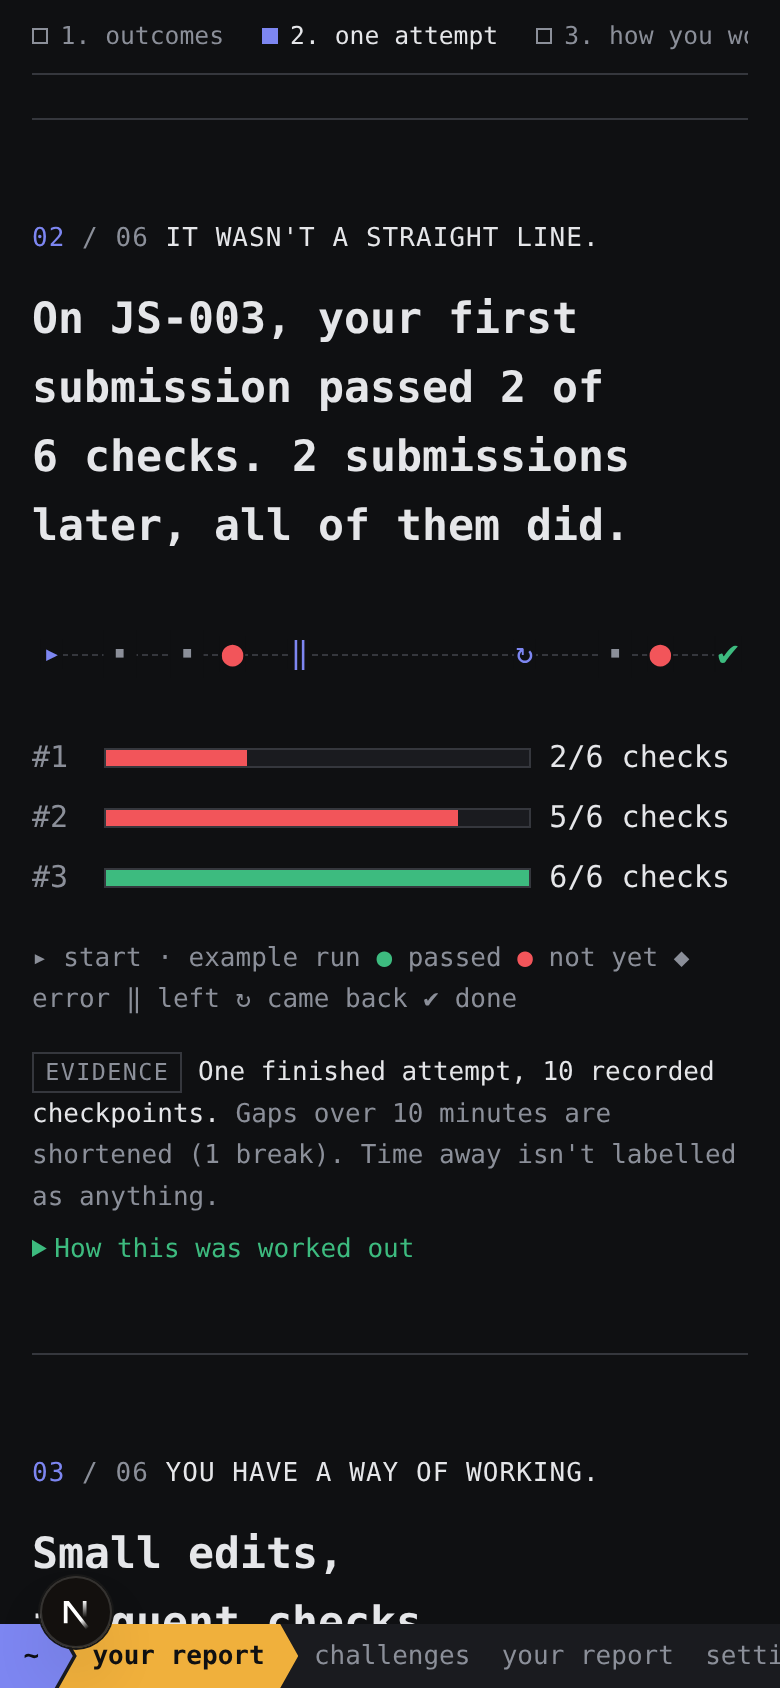
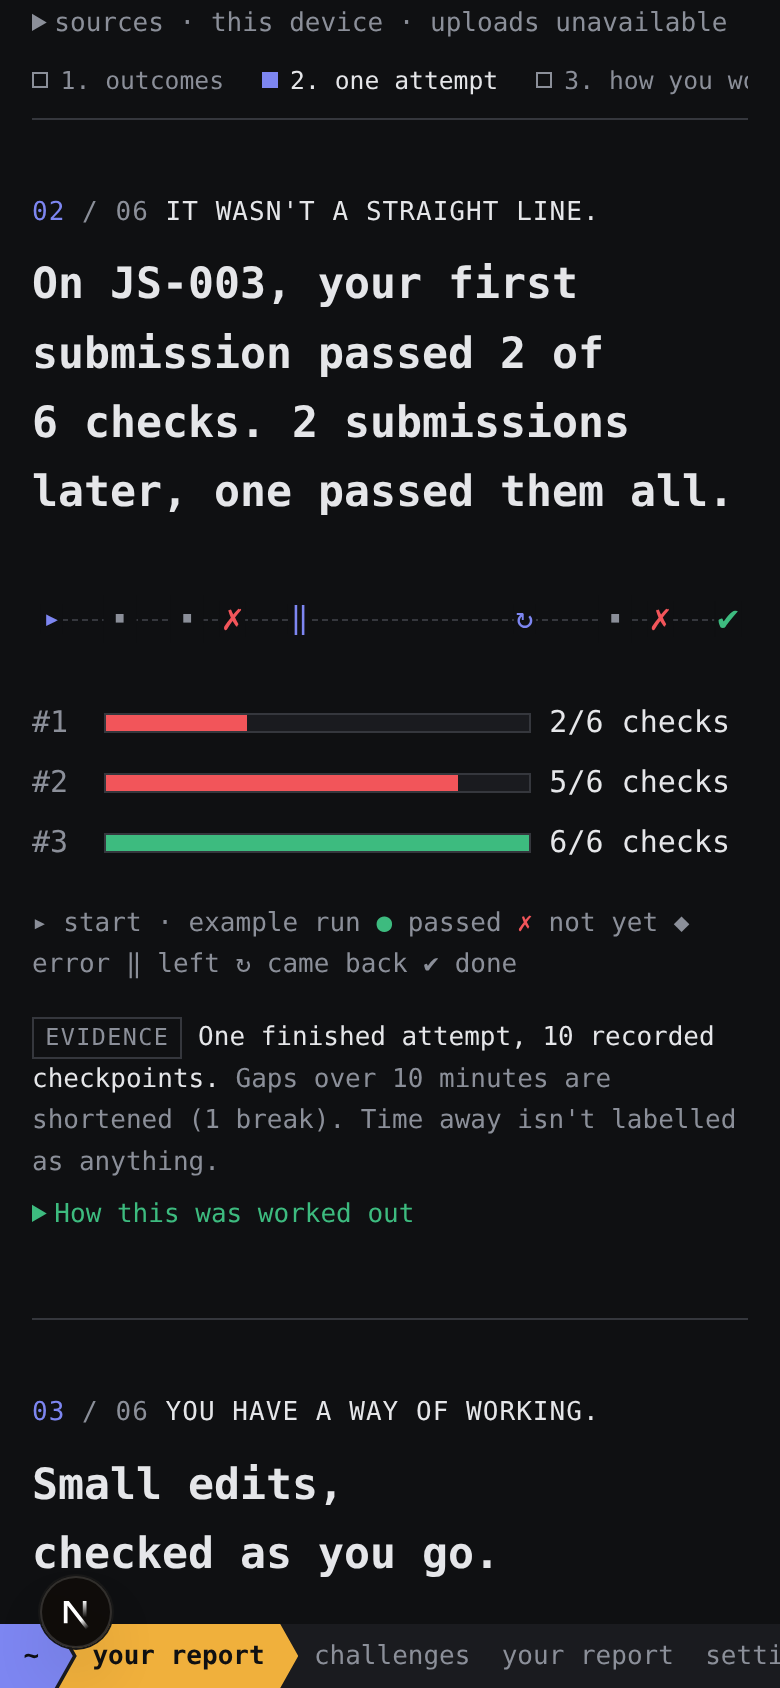
Keep failed model reads and errored submissions truthful; cards on mobile (ENG-374)
Root found an all-failed receipt read reported as 'no model tried', and the
story dropping errored submissions before naming the first one. Unreadable
receipts now say so, every submission keeps its place, and narrow screens get
one comparison card per challenge so every model outcome is visible.

diff --git a/apps/web/lib/report.test.ts b/apps/web/lib/report.test.ts
@@ -115,7 +115,7 @@ test("rich synthetic evidence tells all six chapters from what was recorded", ()
   assert.ok(o.languages[0].items[0].revisited, "two completions are a revisit");
 
   const s = chapter<StoryChapter>(r, "story")!;
-  assert.match(s.headline, /first graded submission passed 1 of 3 checks\. Next time, all of them did/);
+  assert.match(s.headline, /first submission passed 1 of 3 checks\. The next one passed them all\./);
   assert.equal(s.title, "It wasn't a straight line.");
   assert.deepEqual(s.submissions.map((x) => `${x.passed}/${x.total}`), ["1/3", "3/3"]);
   assert.deepEqual(s.markers.map((m) => m.kind), ["start", "fail", "pass", "done"], "opening isn't a return");
@@ -240,4 +240,60 @@ test("a finish known only from uploads is marked, not presented as device progre
   const o = chapter<OutcomesChapter>(r, "outcomes")!;
   assert.equal(o.languages[0].items[0].fromUploads, true);
   assert.match(o.evidence.basis, /1 finished only in your uploads/);
+});
+
+test("failed receipt reads never become a claim that no model tried", () => {
+  const a = summary("f1", "JS-001"),
+    b = summary("f2", "PY-001", `sha256:${"d".repeat(64)}`);
+  const all = chapter<ComparisonChapter>(
+    buildReport(input({ attempts: device(a, b), receipts: { [a.revision]: "unavailable", [b.revision]: "unavailable" } })),
+    "minds",
+  )!;
+  assert.equal(all.headline, "Model results can't be read right now.");
+  assert.doesNotMatch(all.headline, /No model/);
+  const some = chapter<ComparisonChapter>(
+    buildReport(input({ attempts: device(a, b), receipts: { [a.revision]: [], [b.revision]: "unavailable" } })),
+    "minds",
+  )!;
+  assert.match(some.headline, /challenges that could be read; 1 couldn't be read right now/);
+  const mixed = chapter<ComparisonChapter>(
+    buildReport(input({ attempts: device(a, b), receipts: { [a.revision]: [receipt()], [b.revision]: "unavailable" } })),
+    "minds",
+  )!;
+  assert.match(mixed.headline, /synthetic\/model solved 1 of 1\. 1 couldn't be read right now\./);
+  assert.equal(chapter<ComparisonChapter>(buildReport(input({ attempts: device(a), receipts: { [a.revision]: [] } })), "minds")!.headline,
+    "No model has a comparable try on these exact challenges yet.");
+});
+
+test("errored and cancelled submissions keep their place in the story", () => {
+  const a = summary("e1", "JS-001");
+  const at = (s: number) => new Date(Date.parse("2026-10-27T10:00:00Z") + s * 1000).toISOString();
+  const withSubs = (labels: string[], completed = true) => ({
+    ...a,
+    completed,
+    timeline: [
+      { at: at(0), label: "started" },
+      ...labels.map((label, i) => ({ at: at(10 + i * 10), label })),
+      ...(completed ? [{ at: at(100), label: "completed" }] : []),
+    ],
+  });
+  const failErrorPass = withSubs([
+    "failed: 1/3 checks; 0 static rules",
+    "errored: 0/3 checks; 0 static rules",
+    "passed: 3/3 checks; 0 static rules",
+  ]);
+  const s = chapter<StoryChapter>(buildReport(input({ attempts: device(failErrorPass) })), "story")!;
+  assert.equal(s.headline, "On JS-001, your first submission passed 1 of 3 checks. 2 submissions later, one passed them all.");
+  assert.deepEqual(s.submissions.map((x) => x.result), ["failed", "errored", "passed"]);
+  assert.deepEqual(s.markers.map((m) => m.kind), ["start", "fail", "error", "pass", "done"]);
+  const errorFirst = withSubs(["errored: 0/3 checks; 0 static rules", "passed: 3/3 checks; 0 static rules"]);
+  assert.match(
+    chapter<StoryChapter>(buildReport(input({ attempts: device(errorFirst) })), "story")!.headline,
+    /your first submission ended in an error\. The next one passed them all\./,
+  );
+  const openErr = withSubs(["failed: 2/3 checks; 0 static rules", "cancelled: 0/3 checks; 0 static rules"], false);
+  assert.match(
+    chapter<StoryChapter>(buildReport(input({ attempts: device(openErr) })), "story")!.headline,
+    /your last submission was cancelled\. It's still open\./,
+  );
 });

diff --git a/apps/web/lib/report.ts b/apps/web/lib/report.ts
@@ -408,24 +408,35 @@ function story(attempts: readonly ReportAttempt[]): StoryChapter | null {
       markers.push({ kind: "gap", x, label: "Recording gap" });
   }
   const runs = markers.filter((m) => m.kind === "examples").length;
-  const decided = subs.filter((s) => s.result === "passed" || s.result === "failed");
-  const first = decided[0],
-    last = decided.at(-1);
+  // Every submission keeps its place: an errored or cancelled one is still a submission.
+  const first = subs[0],
+    last = subs.at(-1);
+  const passAt = subs.findIndex((s) => s.result === "passed" && s.passed === s.total && s.rules === 0);
+  const outcome = (s: (typeof subs)[number], which: string) =>
+    s.result === "errored"
+      ? `${which} submission ended in an error`
+      : s.result === "cancelled"
+        ? `${which} submission was cancelled`
+        : `${which} submission passed ${s.passed} of ${s.total} checks`;
+  const turned = a.completed && passAt > 0;
   let headline: string;
-  if (a.completed && first && first.result !== "passed")
-    headline = `On ${a.challenge}, your first graded submission passed ${first.passed} of ${first.total} checks. ${decided.length > 2 ? `${decided.length - 1} submissions later` : "Next time"}, all of them did.`;
+  if (turned)
+    headline = `On ${a.challenge}, your ${outcome(first, "first")}. ${passAt === 1 ? "The next one" : `${passAt} submissions later, one`} passed them all.`;
   else if (a.completed && runs)
     headline = `On ${a.challenge}, you ran the examples ${plural(runs, "time")} before a submission that passed everything.`;
   else if (a.completed)
     headline = `On ${a.challenge}, you got there in ${plural(subs.length, "submission")}.`;
   else if (last)
-    headline = `You left ${a.challenge} at ${last.passed} of ${last.total} checks. It's still open.`;
+    headline =
+      last.result === "passed" || last.result === "failed"
+        ? `You left ${a.challenge} at ${last.passed} of ${last.total} checks. It's still open.`
+        : `On ${a.challenge}, your last ${outcome(last, "").trim()}. It's still open.`;
   else
     headline = `On ${a.challenge}, you ran ${plural(checks(a), "check")} so far. It's still open.`;
   const between = a.values.editsBetweenRuns;
   return {
     id: "story",
-    title: a.completed && first && first.result !== "passed" ? "It wasn't a straight line." : "How one attempt went.",
+    title: turned ? "It wasn't a straight line." : "How one attempt went.",
     challenge: a.challenge,
     headline,
     markers,
@@ -614,11 +625,17 @@ function minds(input: ReportInput): {
   const named = [...tally].slice(0, 3).map(([slot, t]) => `${slot.split(" · ")[0]} solved ${t.solved} of ${t.tried}`);
   const perModel = tally.size > 3 ? `${named.join(", ")} and ${tally.size - 3} more` : named.join(", ");
   const ready = rows.every((r) => r.state !== "loading");
+  // A failed read is not an empty result: absence is claimed only for receipts actually read.
+  const unreadable = rows.filter((r) => r.state === "unavailable").length;
   const headline = !ready
     ? "Checking which models tried the same challenges…"
-    : !compared.length
-      ? "No model has a comparable try on these exact challenges yet."
-      : `You solved ${rows.filter((r) => r.you.kind === "solved").length} of ${rows.length}. ${perModel}.`;
+    : unreadable === rows.length
+      ? "Model results can't be read right now."
+      : !compared.length
+        ? unreadable
+          ? `No model has a comparable try on the challenges that could be read; ${unreadable} couldn't be read right now.`
+          : "No model has a comparable try on these exact challenges yet."
+        : `You solved ${rows.filter((r) => r.you.kind === "solved").length} of ${rows.length}. ${perModel}.${unreadable ? ` ${unreadable} couldn't be read right now.` : ""}`;
   return {
     wanted,
     chapter: {

diff --git a/apps/web/app/stats/report-view.tsx b/apps/web/app/stats/report-view.tsx
@@ -243,9 +243,6 @@ function Minds({ c }: { c: ComparisonChapter }) {
       {/* Practice's completion link (owned by ENG-375) still points here. */}
       <span id="comparisons" />
       <h2 className="report-headline">{c.headline}</h2>
-      <p className="report-scroll-hint t-dim" aria-hidden>
-        scroll sideways for every model →
-      </p>
       <div className="report-table-wrap" tabIndex={0} role="region" aria-label="Results on the same challenges">
         <table className="report-table">
           <thead>
@@ -279,7 +276,7 @@ function Minds({ c }: { c: ComparisonChapter }) {
                       {r.state === "loading" ? (
                         <span className="t-dim">reading…</span>
                       ) : r.state === "unavailable" ? (
-                        <span className="t-dim">unavailable</span>
+                        <span className="t-dim">can&apos;t be read</span>
                       ) : m ? (
                         <CellView cell={m.cell} />
                       ) : (
@@ -294,7 +291,7 @@ function Minds({ c }: { c: ComparisonChapter }) {
                       {r.state === "loading"
                         ? "reading…"
                         : r.state === "unavailable"
-                          ? "unavailable"
+                          ? "can't be read"
                           : "no try yet"}
                     </span>
                   </td>
@@ -307,6 +304,44 @@ function Minds({ c }: { c: ComparisonChapter }) {
           </tbody>
         </table>
       </div>
+      {/* Narrow screens: one card per challenge, so every model's outcome is visible without scrolling. */}
+      <ul className="report-cards" aria-label="Results on the same challenges">
+        {c.rows.map((r) => (
+          <li key={r.revision}>
+            <Link className="t-cmd" href={`/challenges/${r.challenge}`}>
+              {r.challenge}
+            </Link>
+            <dl>
+              <dt>You</dt>
+              <dd>
+                <CellView cell={r.you} />
+              </dd>
+              {r.state !== "ready" ? (
+                <>
+                  <dt>Models</dt>
+                  <dd className="t-dim">{r.state === "loading" ? "reading…" : "can't be read right now"}</dd>
+                </>
+              ) : r.models.length ? (
+                r.models.map((m) => (
+                  <React.Fragment key={m.slot}>
+                    <dt>{m.slot}</dt>
+                    <dd>
+                      <CellView cell={m.cell} />
+                    </dd>
+                  </React.Fragment>
+                ))
+              ) : (
+                <>
+                  <dt>Models</dt>
+                  <dd className="t-dim">no try yet</dd>
+                </>
+              )}
+              <dt>People</dt>
+              <dd className="t-dim">{PEOPLE.label}</dd>
+            </dl>
+          </li>
+        ))}
+      </ul>
       {c.rows.some((r) => r.models.length) && (
         <details className="report-receipts">
           <summary>Exact models, versions and conditions</summary>

diff --git a/apps/web/app/stats/stats.test.ts b/apps/web/app/stats/stats.test.ts
@@ -58,3 +58,13 @@ test("a rich report opens on a personal takeaway with chapters, visuals and evid
   assert.doesNotMatch(html, /too few|not enough comparable/);
   assert.doesNotMatch(html, /UTC|developer-profile-2/);
 });
+
+test("narrow screens get one comparison card per challenge with every model outcome", () => {
+  const attempts = deriveAttempts(trace(), "synthetic-participant").map((a) => ({ ...a, source: "device" as const }));
+  const receipt = { model: "synthetic/model", reportedModels: ["synthetic/model-2026"], reasoning: "high", harness: "h", try: 1, state: "completed" as const, submissions: 1, runtime: { engine: "javascript", version: "synthetic" }, features: [], budget: null };
+  const report = buildReport({ catalog, progress: {}, attempts, profile: null, receipts: { [attempts[0].revision]: [receipt] } });
+  const html = renderToStaticMarkup(createElement(ReportBody, { report, status: null }));
+  const cards = html.slice(html.indexOf('class="report-cards"'));
+  assert.match(cards, /<dt>synthetic\/model · high<\/dt><dd><span class="report-result is-solved">/);
+  assert.match(cards, /<dt>People<\/dt><dd class="t-dim">not compared yet<\/dd>/);
+});

diff --git a/apps/web/app/stats/stats.css b/apps/web/app/stats/stats.css
@@ -98,10 +98,30 @@
   font-size: inherit !important;
   margin: 0;
 }
-.report-scroll-hint {
+.report-cards {
   display: none;
+  list-style: none;
+  padding: 0;
+  margin: 1.2em 0;
+}
+.report-cards li {
+  border-top: 1px solid var(--t-line);
+  padding: 0.8em 0;
+}
+.report-cards dl {
+  display: grid;
+  grid-template-columns: minmax(0, 1fr) auto;
+  gap: 0.2em 2ch;
+  margin: 0.4em 0 0;
   font-size: var(--text-sm, 13px);
-  margin-bottom: 0;
+}
+.report-cards dt {
+  color: var(--t-dim);
+  overflow-wrap: anywhere;
+}
+.report-cards dd {
+  margin: 0;
+  text-align: right;
 }
 .report-quiet {
   margin: 3.2em 0;
@@ -126,6 +146,7 @@
   top: -24px;
   z-index: 1;
   flex: 1 1 100%;
+  min-width: 0;
   background: var(--t-bg);
   border-bottom: 1px solid var(--t-line);
   padding: 0.6em 0;
@@ -600,7 +621,10 @@
 }
 
 @media (max-width: 700px) {
-  .report-scroll-hint {
+  .report-table-wrap {
+    display: none;
+  }
+  .report-cards {
     display: block;
   }
   .stats-metrics {

diff --git a/docs/eng-374-evidence/README.md b/docs/eng-374-evidence/README.md
@@ -9,18 +9,19 @@ All populated screens use **explicitly synthetic** practice records (fixture par
 | Rich: chapter 3 habits, people "not compared yet" | [habits](rich-desktop-3-habits.png) | |
 | Rich: chapter 4 result grid (solved, stopped, no receipt; people "not compared yet") | [models](rich-desktop-4-models.png) | [models](rich-mobile-4-models.png) |
 | Rich: chapters 5–6 (quiet confidence; resume the open challenge) | [surprise + next](rich-desktop-5-6-surprise-next.png) | |
+| Model reads failed: "Model results can't be read right now.", per-challenge cards | | [unreadable](models-unreadable-mobile.png) |
 | Partial: one unfinished attempt, no trace (the PDF case) | | [partial](partial-mobile.png) |
 | Empty: new player | [empty](empty-desktop.png) | |
 | Stealth | | [stealth](stealth-mobile.png) |
 
-After root's review, the first viewport leads with chapter 1's headline and hero numbers. Sources and freshness are a one-line disclosure (here showing "uploads unavailable", the honest state while the history SQL repair is pending), and chapter navigation follows chapter 1. The AI note is a short label, with the full sentence in the details. The outcomes, habits and models screenshots were recaptured; the story and surprise screenshots predate this layout change but their chapters are unchanged.
+After root's review, the first viewport leads with chapter 1's headline and hero numbers. Sources and freshness are a one-line disclosure (here showing "uploads unavailable", the honest state while the history SQL repair is pending), and chapter navigation follows chapter 1. The AI note is a short label, with the full sentence in the details. On narrow screens chapter 4 shows one card per challenge (you, each model, people) instead of a sideways-scrolling table. The story counts every submission in order, errors included. Mobile outcomes, story and models screenshots were recaptured after these changes; the desktop story and surprise screenshots predate the lead-layout change but their chapters are unchanged.
 
 Observed in the browser:
 
 - First viewport leads with the personal takeaway (rich/partial) or the invitation (empty); no date form, version IDs or caveat wall before it. Methods sit under "How this was worked out", "All measurements" and "About this report".
 - All six chapters render with the rich fixture; the partial fixture yields only chapters 1 and 6 plus the labelled preview; the empty fixture yields the invitation and the preview.
 - History and receipts load automatically without a button, and the device report renders before them ("adding your uploads…").
-- 390px: no element outside the table/nav scrollers exceeds the viewport (`scrollWidth === innerWidth`).
+- 390px: the page doesn't scroll sideways (`scrollWidth === innerWidth`); only the chapter navigation scrolls within itself.
 - Turning stealth on (account change event) cleared the mounted report in the same tick and issued **zero** requests; the page then showed only the stealth notice.
 - Race: a history response held for 1.5s across a private-boundary `start` was discarded (served, never rendered); the report re-read only after `finish`.
 - Chapter nav links are anchors with `aria-current`; summaries, links, the comparison table region and share checkboxes are keyboard reachable. Bars animate only under `prefers-reduced-motion: no-preference`.

diff --git a/docs/developer-profile.md b/docs/developer-profile.md
@@ -9,9 +9,9 @@
 | Chapter | Built from | Shown only when | Never claims |
 | --- | --- | --- | --- |
 | 1. Could you still do it? | Device progress plus device/uploaded attempts: finished, open, revisited, languages; first-submit outcomes from complete traces | Anything was started | A global ability score; open is never failed. AI background shapes copy only when the person said they use AI daily or it writes most of their code |
-| 2. It wasn't a straight line. | One real attempt's checkpoints (starts, example runs, submissions with passing checks, leaving, returning, completion), placed by wall clock with gaps over 10 minutes shortened | An attempt has at least two checks or a submission, preferring a finished attempt that recovered from a failed submission | That idle time is thinking; no synthetic trace stands in |
+| 2. It wasn't a straight line. | One real attempt's checkpoints, with every submission in its actual order (errored and cancelled ones keep their place and count) (starts, example runs, submissions with passing checks, leaving, returning, completion), placed by wall clock with gaps over 10 minutes shortened | An attempt has at least two checks or a submission, preferring a finished attempt that recovered from a failed submission | That idle time is thinking; no synthetic trace stands in |
 | 3. You have a way of working. | Small (≤20 units) vs bigger edits and checks per attempt, from complete traces; returns to unfinished work | At least one complete trace with edits | Personality, typo or attention judgements. Headline cut-offs (`SMALL_STEP_SHARE`, `LARGE_STEP_SHARE`, `FREQUENT_CHECKS`) choose wording, not norms. Human position: "not compared yet" (`PEOPLE`, see below) |
-| 4. Same challenge. Different minds. | Up to three of the person's exact revisions beside stored model receipts (one try per model/reasoning slot) | Any attempt on a published revision | Success rates or a speed race. Mismatched runtime/diagnostics withhold the model outcome; loading/unavailable/missing/stopped/refused stay distinct. People column: "not compared yet" |
+| 4. Same challenge. Different minds. | Up to three of the person's exact revisions beside stored model receipts (one try per model/reasoning slot) | Any attempt on a published revision | Success rates or a speed race, or an absence it didn't read: a failed receipt read says "can't be read right now", never "no model tried". Mismatched runtime/diagnostics withhold the model outcome; loading/unavailable/missing/stopped/refused stay distinct. A table on wide screens, one card per challenge on narrow ones. People column: "not compared yet" |
 | 5. The part you might not have noticed. | In order: low retrospective confidence on a clean first-submission pass; fewer submissions on a later finished attempt at the same revision and conditions; finishing after a failed first submission (not the chapter 2 attempt) | One of these holds | Prospective calibration, general improvement from a familiar task, or causal AI claims |
 | 6. What will you find out next? | Resume an open runnable challenge; otherwise a new topic in the main language, a new language, or any fresh task. Optional experience answer if unanswered. Optional share | Always | Unlock thresholds. Sharing copies only the sentences the person ticks to the clipboard; nothing is posted |
 
